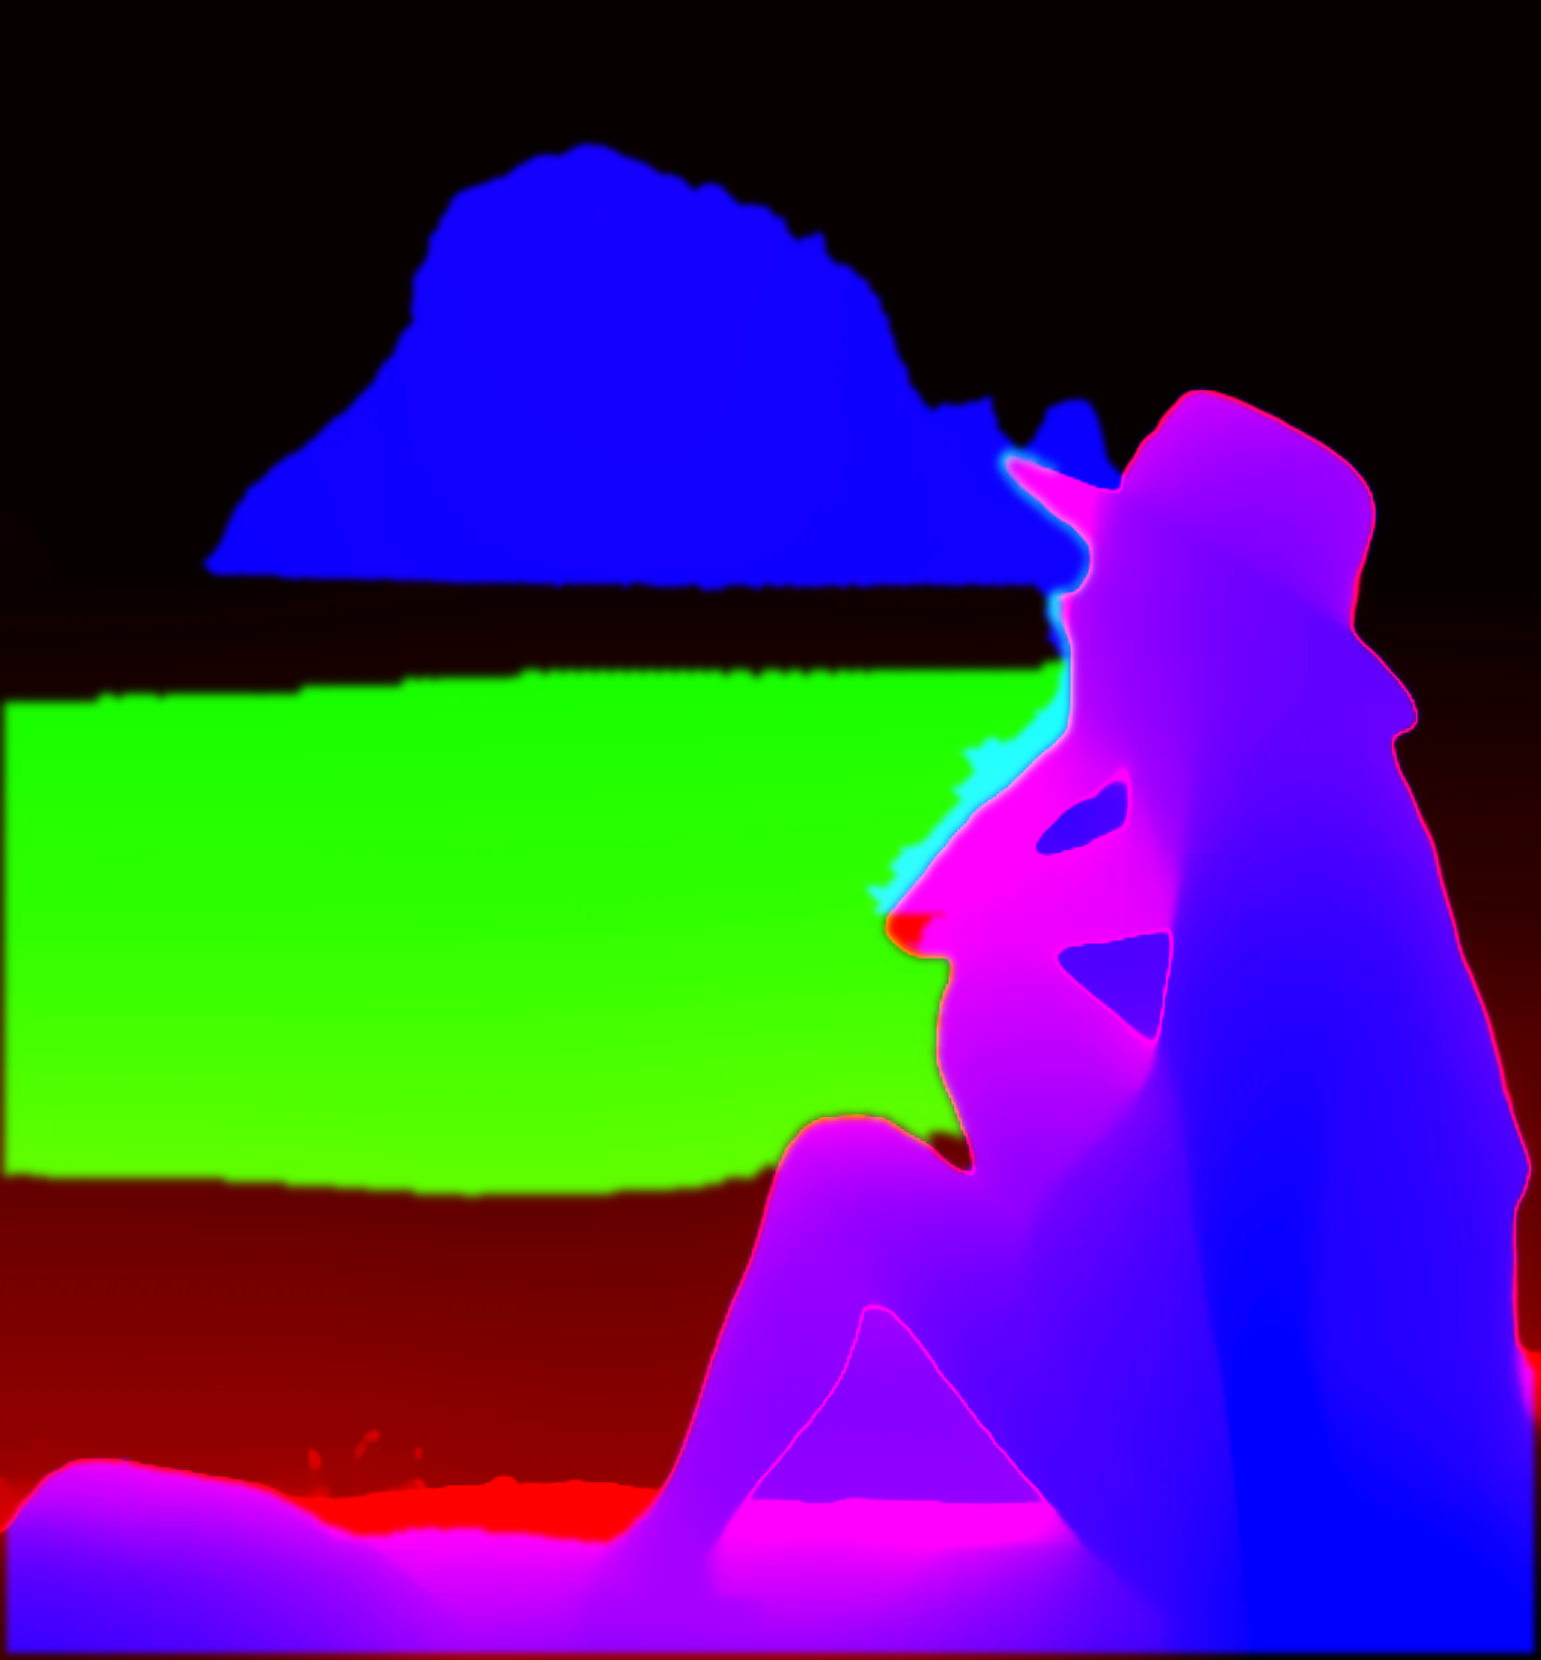
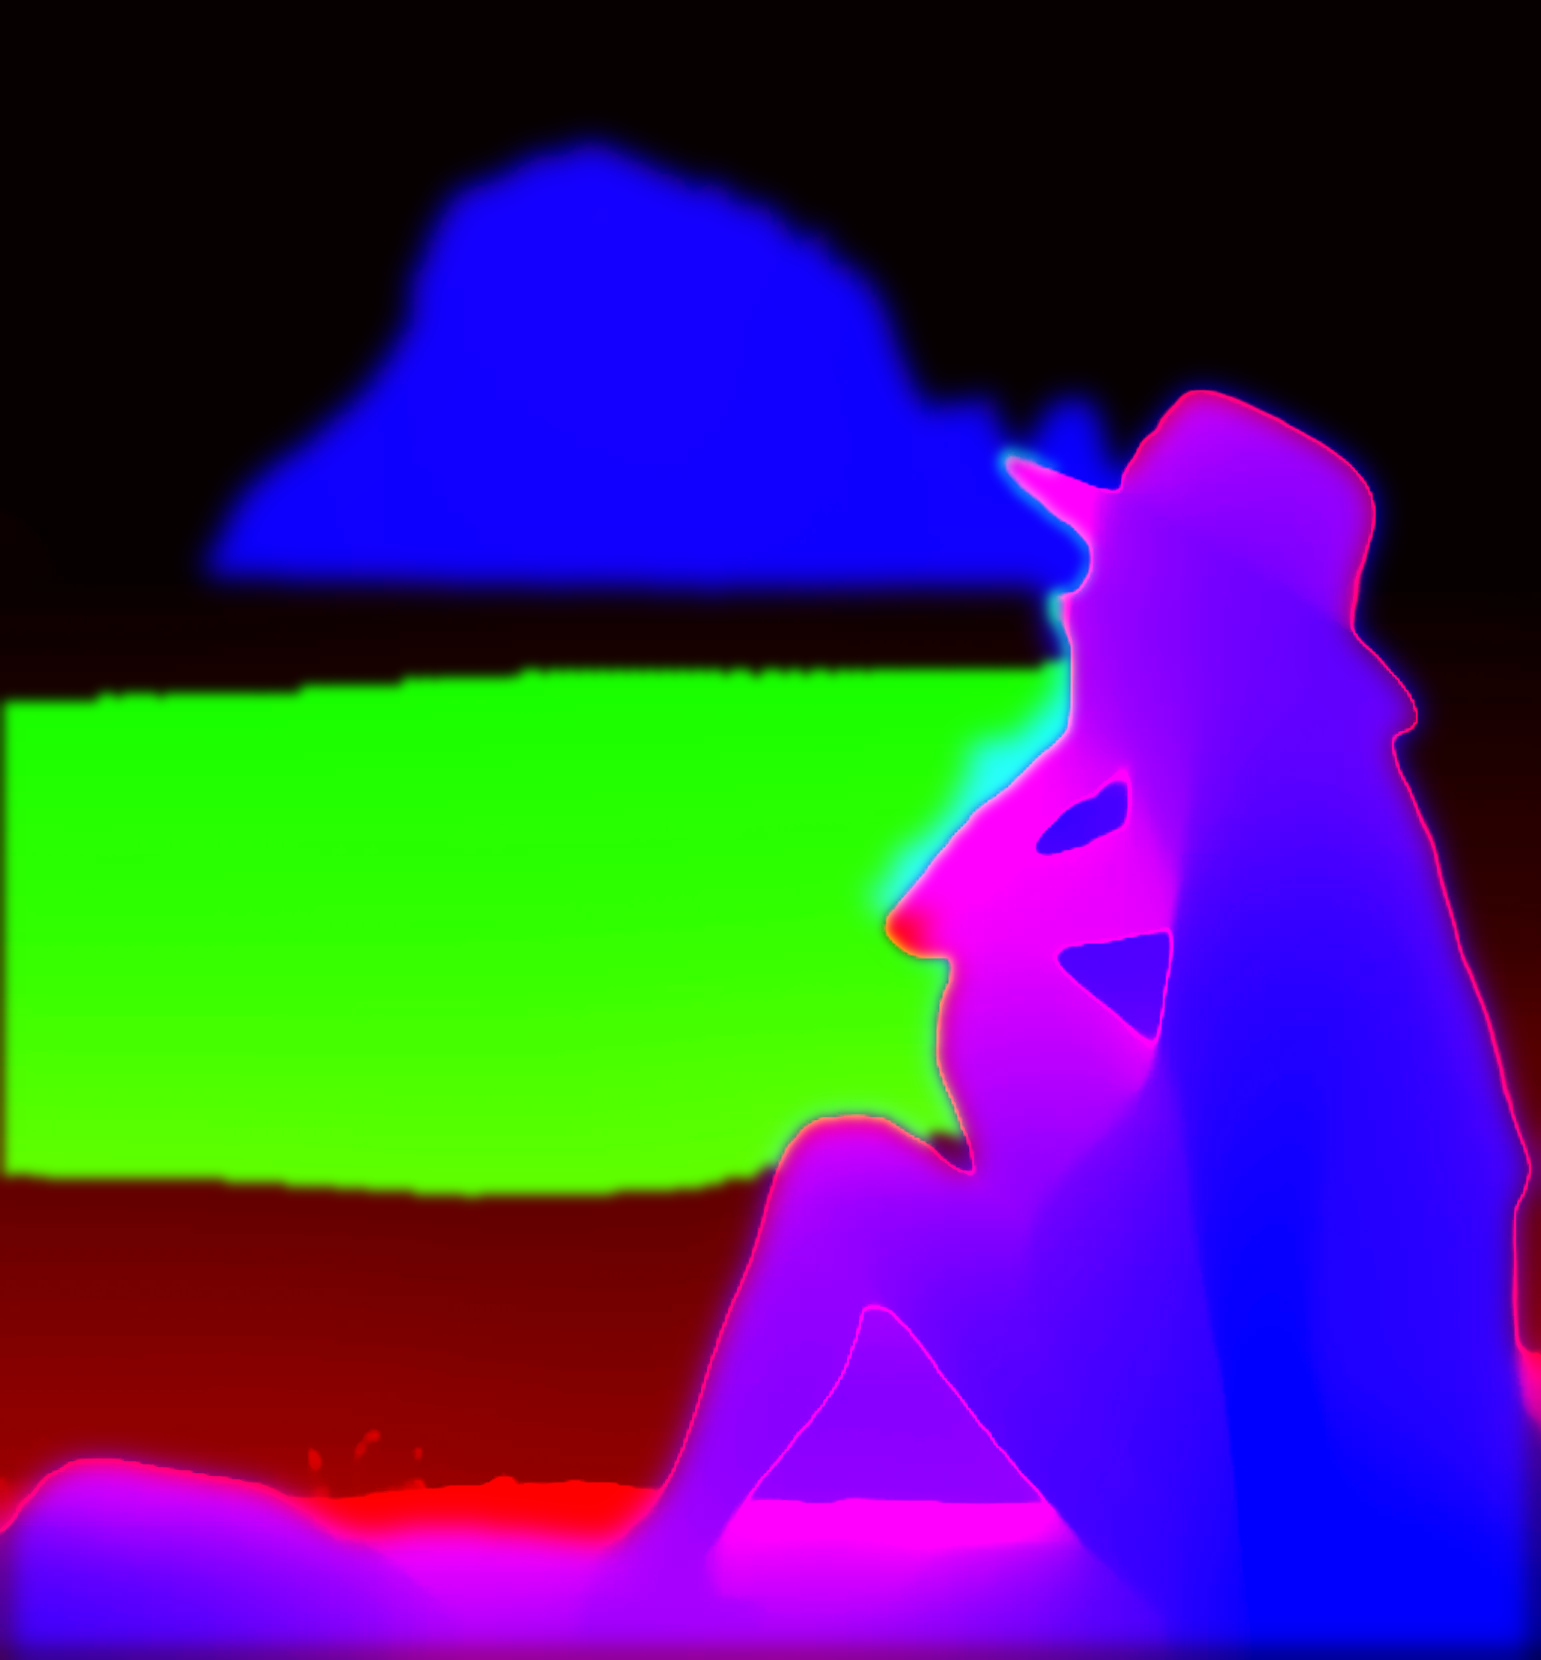
preview: gentler parallax, multi-octave sea, wider static feather
Three coordinated changes addressing the mountain-detached feel and
the user's request for calmer, more realistic sea motion.

Mask (scripts/convert_depth_image.py)
- static_fg feather sigma 3 → 14. The mask edge now fades across
  ~30 px around the mountain silhouette. Combined with the lower
  parallax magnitude (below) the parallax now tapers gradually
  into the mountain instead of switching off at a hard edge —
  no more 'cardboard cutout' mismatch at the silhouette.
- static_fg gamma 0.7 → 0.85 so the soft halo holds its gradient
  rather than getting crushed to white.
- Water feather sigma 4 → 5 (mild bump, mountain edge stays clean).

Shader (HomeImmersiveCanvas)
- Cursor parallax halved again: X 0.018 → 0.009, Y 0.008 → 0.004.
  Max shift at the top of the viewport is now sub-10 pixels at
  the edges of cursor travel.
- Sea displacement redone as a two-octave composite:
    swell: 3.5/2.8 freq, period ~6s — slow rolling undulation
    chop:  18-22 freq, period ~0.7s — surface ripple texture
  Cross-mixed on both axes (swellX uses uvZoomed.y, swellY uses
  uvZoomed.x, etc.) so the pattern doesn't read as a regular grid.
- Total displacement amplitude ~0.0014 vs previous 0.0027 — half
  the magnitude, but visually richer because of the multi-octave.

Net effect: the sea is alive but subtle; cursor moves the horizon
and a thin band of sea by a few pixels; the mountain + lady stay
genuinely locked, and the boundary between them no longer shows
a parallax seam.

Changed region(s): [[0.0, 0.0614, 1.0, 1.0]]

diff --git a/components/site/HomeImmersiveCanvas.tsx b/components/site/HomeImmersiveCanvas.tsx
@@ -158,16 +158,21 @@ const FRAGMENT = /* glsl */ `
     vec2 toCursor = vuv - uCursor;
     float cursorDist = length(toCursor);
 
-    // 5. Animated ripple — purely time-driven, runs whether the cursor
-    //    moves or not so the sea is always alive. Speed AND amplitude
-    //    bumped ~50% over the previous calm pass — sea now reads as a
-    //    body of water with visible motion, not a still mirror.
-    float wave =
-        sin(uvZoomed.x *  8.0 + uTime * 0.63) * 0.55 +
-        sin(uvZoomed.y * 11.0 - uTime * 0.47) * 0.45;
+    // 5. Two-octave sea motion — a slow long-period SWELL plus a faster
+    //    short-period CHOP, cross-mixed on both axes so the pattern
+    //    doesn't read as a regular grid. Together they look like real
+    //    ocean texture rather than a sine wave.
+    //      swell: 3.5/2.8 freq, period ~1s — gentle rolling undulation
+    //      chop:  18-22 freq, period ~0.5s — surface ripple texture
+    float swellX = sin(uvZoomed.x * 3.5 + uvZoomed.y * 1.2 - uTime * 0.18);
+    float swellY = sin(uvZoomed.y * 2.8 - uvZoomed.x * 0.8 + uTime * 0.14);
+    float chopX  = sin(uvZoomed.x * 18.0 + uTime * 0.95) * 0.55 +
+                   sin(uvZoomed.y * 22.0 - uTime * 0.75) * 0.45;
+    float chopY  = cos(uvZoomed.y * 18.0 + uTime * 0.82) * 0.55 +
+                   cos(uvZoomed.x * 22.0 - uTime * 0.62) * 0.45;
 
     // Caustic shimmer — band-limited value noise. Brightens + darkens
-    // the sea so it shimmers naturally.
+    // the sea so it shimmers naturally even with the small wave.
     float caustic =
         vnoise(uvZoomed * 5.0 + vec2(uTime * 0.12, -uTime * 0.08)) +
         vnoise(uvZoomed * 9.0 - vec2(uTime * 0.17, uTime * 0.06)) * 0.5;
@@ -180,12 +185,21 @@ const FRAGMENT = /* glsl */ `
     //    foreground rocks) doesn't move with the cursor.
     vec2 cursorOffset = uCursor - vec2(0.5);             // -0.5..0.5
     float horizonWeight = 1.0 - vuv.y;                   // 1 at viewport top, 0 at bottom
+    // Parallax halved again. With the wider static-fg feather, the
+    // motion tapers smoothly into the locked subjects instead of
+    // creating a hard edge mismatch.
     vec2 parallax = vec2(
-      cursorOffset.x * horizonWeight * 0.018,
-      cursorOffset.y * 0.008
+      cursorOffset.x * horizonWeight * 0.009,
+      cursorOffset.y * 0.004
     ) * (1.0 - staticMask);
 
-    vec2 displacement = vec2(wave) * 0.0027 * water;
+    // Sea displacement — composite swell + chop, gated by water.
+    // Total max ≈ 0.0014 vs previous 0.0027. Sea reads as moving water
+    // but doesn't distort the underlying composition.
+    vec2 displacement = (
+      vec2(swellX, swellY) * 0.00085 +
+      vec2(chopX,  chopY ) * 0.00055
+    ) * water;
     vec2 sampleUV = uvZoomed + displacement + parallax;
 
     // 7. Sample the color image. Slight brightness boost (×1.10) so

diff --git a/scripts/convert_depth_image.py b/scripts/convert_depth_image.py
@@ -100,15 +100,23 @@ static_fg = subject | rock
 def feather(mask, sigma):
     return ndimage.gaussian_filter(mask.astype(np.float32), sigma=sigma)
 
-# Strong feather on the static fg so the boundary doesn't read as a hard
-# pixel jump when the parallax engages near the silhouette edge.
-static_f = feather(static_fg, sigma=3.0)
-sea_f    = feather(sea,       sigma=4.0)
+# WIDE feather on the static-fg so the parallax tapers smoothly across
+# tens of pixels around the silhouette edge — eliminates the visible
+# "cardboard cutout" mismatch where the locked mountain meets the
+# moving sea. The cost is that pixels close to the mountain shift a
+# little even though they're really sea, but at the parallax
+# magnitudes we use (sub-pixel near the edge) that's imperceptible.
+static_f = feather(static_fg, sigma=14.0)
+# Water boundary stays moderate — the wave amplitude is small enough
+# that a sigma=5 transition at the mountain edge is unnoticeable.
+sea_f    = feather(sea,       sigma=5.0)
 
 # Pack R/G/B
 depth_u8 = np.clip(depth * 255.0, 0, 255).astype(np.uint8)
 water_u8 = np.clip(np.power(sea_f, 0.6) * 255.0, 0, 255).astype(np.uint8)
-static_u8 = np.clip(np.power(static_f, 0.7) * 255.0, 0, 255).astype(np.uint8)
+# Slightly gentler curve on static (0.7 → 0.85) so the soft halo around
+# the mountain holds its gradient instead of being crushed to white.
+static_u8 = np.clip(np.power(static_f, 0.85) * 255.0, 0, 255).astype(np.uint8)
 
 packed = np.stack([depth_u8, water_u8, static_u8], axis=-1)
 Image.fromarray(packed, mode="RGB").save(OUT, optimize=True)
